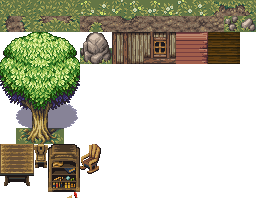
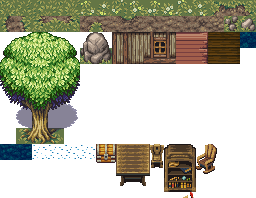
Mana Seed water with sparkles and treasure chest strongbox
Claude-Session: https://claude.ai/code/session_018ysfjQ3yuk5cLUFu11AbcY

Changed region(s): [[0.0, 0.7273, 0.8438, 1.0], [0.9375, 0.1515, 1.0, 0.2424]]

diff --git a/assets/packed/assets.js b/assets/packed/assets.js
@@ -2,5 +2,5 @@
 (function (global) {
     const ENSO = global.ENSO || (global.ENSO = {});
     const A = ENSO.packedAssets || (ENSO.packedAssets = {});
[2 lines of base64/hex data omitted]
 })(typeof window !== 'undefined' ? window : globalThis);

diff --git a/ui/tiles-manaseed.js b/ui/tiles-manaseed.js
@@ -6,6 +6,7 @@
  * The static layer paints converted maps at 32 px, so a cell is four 16 px tiles or one 32 px piece.
  *   ground.grass / dirt_path / wood_floor   (g, px, py, T, c), c has the neighbours' names
  *   painters.*                               drawn over the floor; trees draw in decorPass so crowns can overlap
+ *   sprites.strongbox                        the treasure chest
  *   overhangs.tree                           the crown above the tree's cell, over people standing there
  * Every function returns false while the atlas loads; ui/world-render.js then uses the painter it replaced.
  * Never use this art as input for AI image generation. Presentation only.
@@ -17,7 +18,8 @@
     const KEY = 'tiles/manaseed';
     const t16 = (sheet, c, r) => [sheet, c * 16, r * 16, 16, 16];
     // name -> [pack sheet, x, y, w, h] in the pack's own pictures. S = seasonal sample (summer), T = simplified
-    // full timber, H = home interiors, timber roof, C = cozy furnishings sampler.
+    // full timber, H = home interiors, timber roof, C = cozy furnishings sampler, W = summer water sparkles,
+    // X = treasure chests.
     const PARTS = {
         ...Object.fromEntries([1, 2, 3, 4, 5].map((r, i) => [`grass${i}`, t16('S', 0, r)])),
         ...Object.fromEntries([[0, 6], [1, 6], [2, 6], [3, 6], [0, 7], [1, 7], [2, 7], [3, 7]].map(([c, r], i) => [`flowers${i}`, t16('S', c, r)])),
@@ -32,6 +34,9 @@
         boulder: ['S', 48, 224, 32, 32],
         wall: ['T', 128, 96, 32, 32], window: ['T', 96, 96, 32, 32], roof: ['T', 208, 32, 32, 32],
         floor: ['H', 16, 160, 32, 32],
+        water0: t16('S', 12, 13), water1: t16('S', 13, 13), water2: t16('S', 13, 14),
+        ...Object.fromEntries([0, 1, 2, 3].map((f) => [`sparkle${f}`, t16('W', f, 0)])),
+        chest: ['X', 6, 9, 20, 19],
         table: ['C', 39, 5, 34, 42], chair: ['C', 17, 7, 14, 24], bookcase: ['C', 128, 0, 32, 54], rocker: ['C', 74, 50, 21, 30]
     };
 
@@ -112,6 +117,26 @@
             put(g, img, 'boulder', px + (T - 32) / 2, py + T - 32);
         },
         house_wall: fill32('wall'), timber_wall: fill32('wall'), house_window: fill32('window'), roof: fill32('roof'),
+        /** Deep water; a few tiles glint, each on its own beat (water is redrawn every frame). */
+        water(g, px, py, T, c) {
+            const img = sheet();
+            if (!img) return false;
+            for (let y = 0; y < T; y += 16) for (let x = 0; x < T; x += 16) {
+                const tx = c.tx * 4 + x / 16, ty = c.ty * 4 + y / 16;
+                put(g, img, `water${Math.floor(hash(tx, ty, 15) * 3)}`, px + x, py + y);
+                if (hash(tx, ty, 16) < 0.3) {
+                    const f = Math.floor((c.time || 0) / 180 + hash(tx, ty, 17) * 24) % 8;
+                    if (f < 4) put(g, img, `sparkle${f}`, px + x, py + y);
+                }
+            }
+            // A muddy bank where the water meets land.
+            g.fillStyle = '#3d4a2a';
+            if (c.above !== 'water') g.fillRect(px, py, T, 3);
+            if (c.left !== 'water') g.fillRect(px, py, 2, T);
+            if (c.right !== 'water') g.fillRect(px + T - 2, py, 2, T);
+            g.fillStyle = '#1e5a7a';
+            if (c.below !== 'water') g.fillRect(px, py + T - 2, T, 2);
+        },
         table: stand('table'), chair: stand('chair'), shelf: stand('bookcase'), armchair: stand('rocker')
     };
 
@@ -143,7 +168,10 @@
         }
     };
 
-    const api = { ground, painters, overhangs, decorPass, KEY, PARTS, layout };
+    /** Object sprites (interactables with a `sprite`). */
+    const sprites = { strongbox: stand('chest') };
+
+    const api = { ground, sprites, painters, overhangs, decorPass, KEY, PARTS, layout };
     ENSO.tilesManaseed = api;
     if (isNode) module.exports = api;
 })(typeof window !== 'undefined' ? window : globalThis);

diff --git a/tools/gen-manaseed-tiles.js b/tools/gen-manaseed-tiles.js
@@ -15,7 +15,8 @@ const { PARTS, layout } = require('../ui/tiles-manaseed.js');
 
 const root = path.join(__dirname, '..');
 const pack = path.resolve(process.argv[2] || process.env.MANASEED_DIR || '/mnt/project-files/25.07 - Free Mana Seed RPG Starter Pack');
-const SHEETS = { S: 'tilesets/seasonal sample (summer).png', T: 'tilesets/simplified full timber.png', H: 'tilesets/home interiors, timber roof.png', C: 'icons & objects/cozy furnishings sampler.png' };
+const SHEETS = { S: 'tilesets/seasonal sample (summer).png', T: 'tilesets/simplified full timber.png', H: 'tilesets/home interiors, timber roof.png', C: 'icons & objects/cozy furnishings sampler.png',
+    W: '../mana seed seasonal forest sample (summer)/seasonal water animations/summer water sparkles B 16x16.png', X: '../19.07c - Treasure Chests 1.2a/treasure chests.png' };
 const OUT = path.join(root, 'assets/src/tiles/manaseed.png');
 
 const src = Object.fromEntries(Object.entries(SHEETS).map(([k, f]) => [k, PNG.decode(fs.readFileSync(path.join(pack, f)))]));

diff --git a/ui/world-render.js b/ui/world-render.js
@@ -658,7 +658,7 @@
         const PACK = ENSO.tilesManaseed;
         if (PACK && !PACK.wrapped) {
             PACK.wrapped = true;
-            for (const [table, extra] of [[ground, PACK.ground], [painters, PACK.painters], [OVERHANGS, PACK.overhangs]]) {
+            for (const [table, extra] of [[ground, PACK.ground], [painters, PACK.painters], [OVERHANGS, PACK.overhangs], [sprites, PACK.sprites || {}]]) {
                 for (const [name, fn] of Object.entries(extra)) {
                     const prev = table[name];
                     table[name] = (...args) => { if (fn(...args) === false && prev) prev(...args); };
